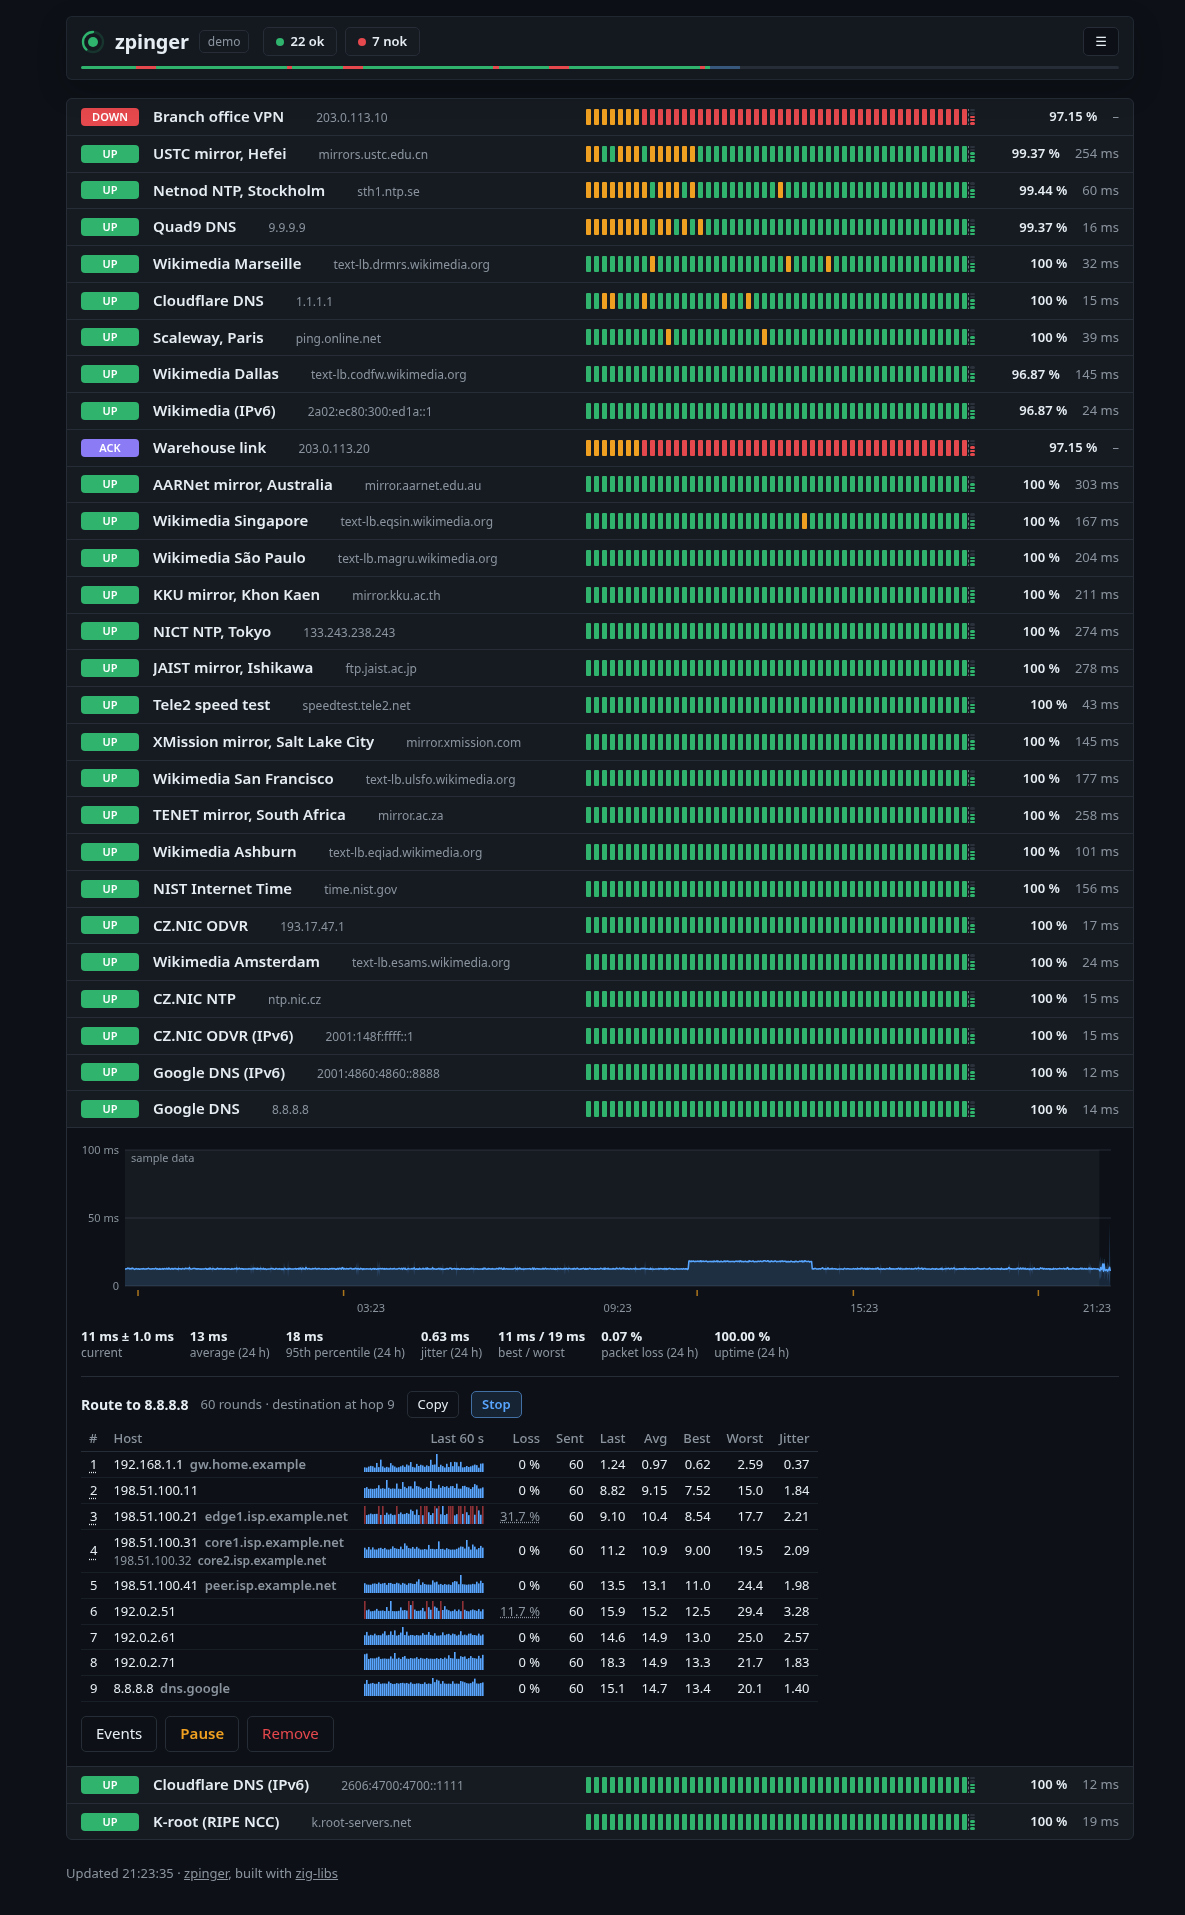
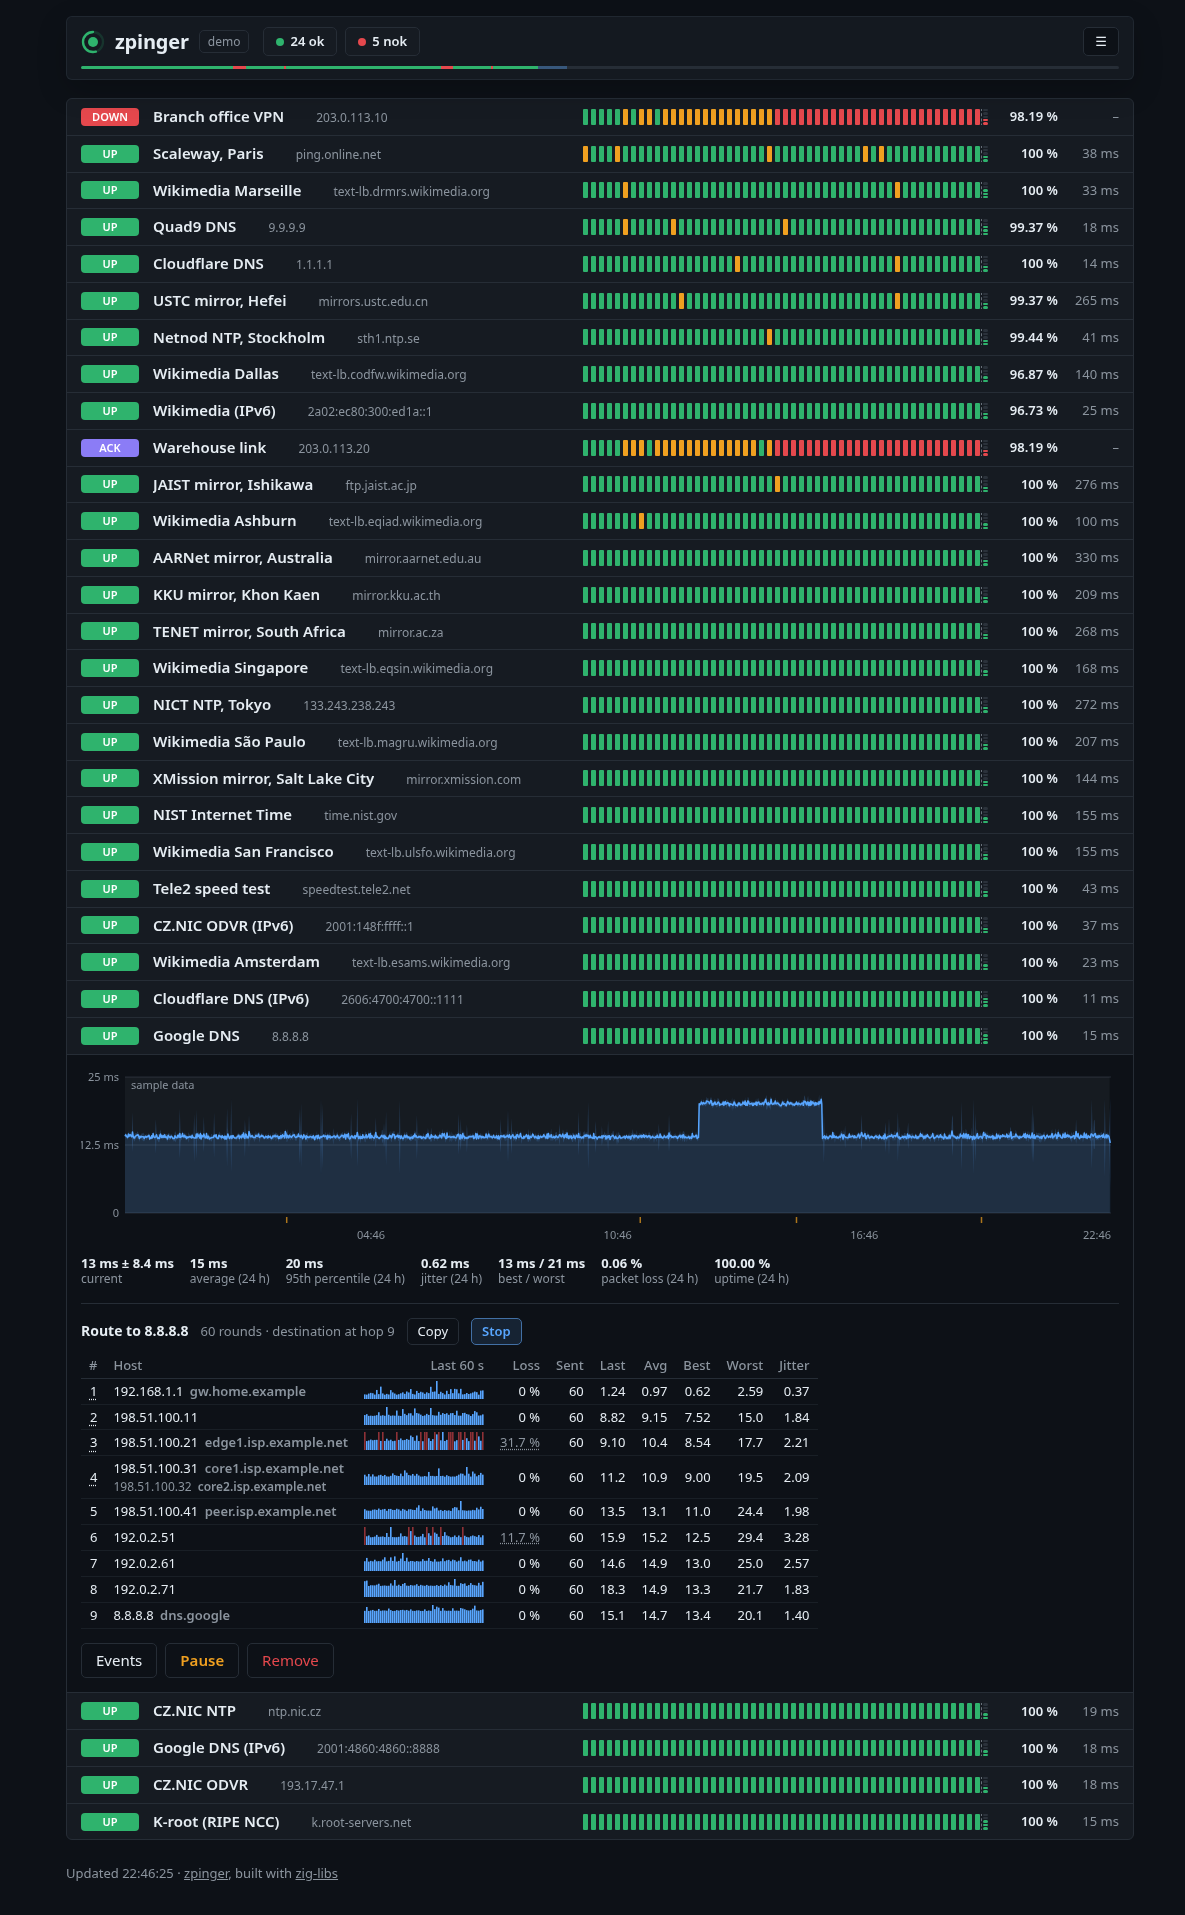
README audit: binary size, netaddr; fresh screenshot; 0.3.0 dated
- The package's binary is 1.2 MB (was said 1.1); the layer table names
  netaddr next to dns.
- Screenshot regenerated from a fresh 30-target demo (compact rows, the
  figures in two aligned columns).
- CHANGELOG: 0.3.0 was released on 2026-11-14.

diff --git a/CHANGELOG.md b/CHANGELOG.md
@@ -4,7 +4,7 @@ This application started in the zig-fping repository as
 `example-apps/fping-watch`; its history was carried over (`git filter-repo`),
 and these entries come from zig-fping's CHANGELOG.md.
 
-## 0.3.0 (unreleased)
+## 0.3.0 (2026-11-14)
 
 - **A problem is judged by the median jitter**, not the mean: 1 % packet
   loss on average or a median jitter of 10 ms, over the hour or the day. A
